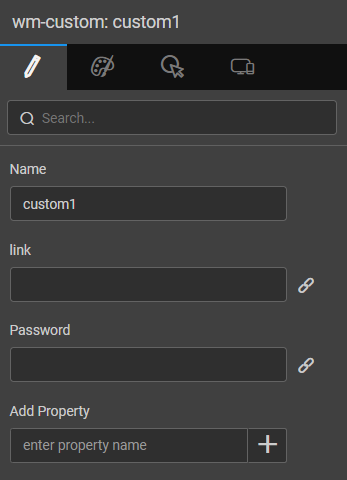
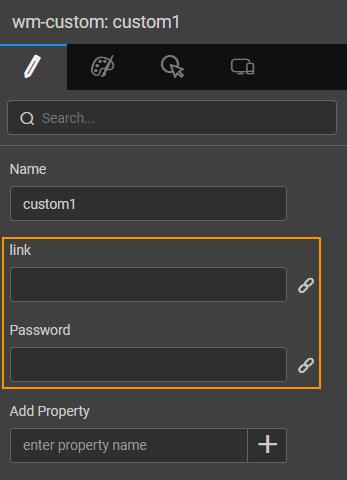
Feat: updated docs for Pdf preview and custom JS modules (#881)
* Feat: updated docs for Pdf preview and custom JS modules

* Fix: added pdf dependencies version

* Feat: pdf preview prefab doc changes

* Feat: updated docs with .web.js file, added project's markup, updated screenshots

* edited the document

* added import statements

* Fix: missing import statements, resolved PR comments

---------

Changed region(s): [[0.0, 0.4688, 0.9222, 0.8125]]

diff --git a/learn/react-native/pdf-preview-and-download.md b/learn/react-native/pdf-preview-and-download.md
@@ -4,7 +4,9 @@ id: "pdf-preview-and-download"
 sidebar_label: "PDF preview"
 ---
 ---
+
 import PdfPreview from '/learn/assets/pdf-preview-and-download.png';
+import PdfDownloadNotification from '/learn/assets/pdf_download_notification.png';
 import CreatePrefab from '/learn/assets/create-pdf-preview-prefab.png'
 import SelectWidget from '/learn/assets/select-custom-widget.png'
 import CreateProperties from '/learn/assets/add-link-and-password-property.png' 
@@ -14,82 +16,85 @@ import BindProperties from '/learn/assets/bind-link-and-password-properties.png'
 import DialogBox from '/learn/assets/password-dialog-box.png'
 import Password from '/learn/assets/add-password-expression.png'
 import ImplementPrefab from '/learn/assets/implement-prefab-to-project.png'
+import PdfPreviewNative from '/learn/assets/PdfPreview_native_module.png'
+import PdfPreviewWeb from '/learn/assets/PdfPreview_web_module.png'
+import PdfPreviewPrefab from '/learn/assets/PdfPreview_prefab_script.png'
 
-Viewing PDFs without leaving the mobile app offers ability for developers to keep their users in the app's context. It is possible to let PDF file download to the phone and have the user open it using a different app. That may not be best user experience for an app. Not all users may know how to locate and open the PDF file in a different app. 
-In this how-to we will see how to add PDF preview functionality to a WaveMaker app using the `react-native-pdf` and 
-`react-native-blob-util` libraries.
+Viewing PDFs without having to close the mobile app offers the ability to keep their users in the app's context. It is possible to download the PDF files on the phone and have the user open them using a different app. This might not be the best user experience for an app. Not all users might know how to locate and open the PDF file in a different app.
 
-## Adding PDF Preview in a WaveMaker App
+In this document, we will see how to add PDF preview functionality to a WaveMaker app using the `react-native-pdf` and `react-native-blob-util` libraries.
 
-The `react-native-pdf` library is a React Native PDF viewer component with support for both iOS and Android. 
-It uses the native libraries `PDFKit` on iOS and `PdfRenderer` on Android. 
-The `react-native-blob-util` library is a React Native wrapper for the `blob-util` library.
-We can leverage these libraries to add PDF preview functionality to a WaveMaker app. The best way to accomplish this is 
-through creating a prefabs in WaveMaker which will handle the PDF functional component.
+## Adding PDF Preview in WaveMaker App
+
+The `react-native-pdf` library is a React Native PDF viewer component with support for both iOS and Android. It uses the native libraries `PDFKit` on iOS and `PdfRenderer` on Android. The `react-native-blob-util` library is a React Native wrapper for the `blob-util` library.
+We can leverage these libraries to add PDF preview functionality to a WaveMaker app. The best way to accomplish this is by creating Prefabs in WaveMaker which will handle the PDF functional component.
 
 ## Building Prefabs in WaveMaker for PDF Preview
 
-The following steps will you can create your own Prefabs for PDF Preview.
+The following steps will help you create your own Prefab for PDF Preview. To know how to add third-party libraries see, [Custom Widget](/learn/react-native/custom-widget#adding-third-party-native-libraries).
 
-<img src={CreatePrefab} style={{width:"35%"}} />
+<img src={CreatePrefab} style={{width:"100%"}} /><br/><br/>
 
-Select widget in sidebar and search for the custom widget and drag n drop to the design box
+1. Go to Widget in the sidebar and search for the **Custom** widget. Drag and drop it on the Design screen.
 
-<img src={SelectWidget} style={{width:"35%"}} />
+<img src={SelectWidget} style={{width:"35%"}} /><br/><br/>
 
-Add link and password properties to the custom widget
+2. Add **link** and **Password** properties to the custom widget
+
+:::note
+We can render this Prefab with or without password-protected files.
+:::
 
 <img src={CreateProperties} style={{width:"35%"}} />
 
 ### Prefab Configuration
 
-On creating prefab we configure it through simple steps. 
+On creating a Prefab we can configure it by following the steps given below.
 
-Click on **setting** then click on  **Config Prefab**. Now, select Resources tab and In **Script** section add `react-native-pdf` and 
-`react-native-blob-util` dependencies to the scripts and then click on save.
+1. Click on **Setting** icon, then click on  **Prefab Configuration**. Now, select the Resources tab and in **Script** section add `react-native-pdf@6.6.2` and `react-native-blob-util@0.19.8` dependencies to the scripts and then click on Save.
 
-<img src={AddPackages} style={{width:"35%"}} />
+<img src={AddPackages} style={{width:"100%"}} /><br/><br/>
 
-And then, select properties tab. Add Link Property in **UI Properties** section and click on save.
+2. Then, select the **Properties** tab. Add Link and Pdfpassword Property in the **UI Properties** section and click on Save.
 
-<img src={AddProperty} style={{width:"35%"}} />
+<img src={AddProperty} style={{width:"100%"}} /><br/><br/>
 
-Make sure to select **Use Expression** tab, and add `pdfpassword` expressoin.
+3. Make sure to select the **Use Expression** tab, and add `pdfpassword` expression.
 
-<img src={Password} style={{width:"35%"}} />
+<img src={Password} style={{width:"100%"}} /><br/><br/>
 
-Time to bind prefab link and password properties to the widget
+4. Now, we can bind Prefab **link** and **Password** properties to the widget.
 
 <img src={BindProperties} style={{width:"35%"}} />
 
-After setting up the configurations it's time for us to implement functionality for the prefab with code.
+Here's the final **Markup** for the Prefab.
+```html
+<wm-prefab-container name="prefab_container1">
+    <wm-custom name="custom1" linkparam="bind:Variables.link.dataSet.dataValue" passwordparam="bind:Variables.pdfpassword.dataSet.dataValue"></wm-custom>
+</wm-prefab-container>
+```
 
-In order to handle password flows, we need to create dialog box for password by using design dialog widget.
+### Prefab Implementation
 
-<img src={DialogBox} style={{width:"35%"}} />
+After setting up the configurations it's time for us to implement functionality for the Prefab with code. This functionality will be imported later in our project.
+
+1. To handle password flows, we need to create a Dialog box for password by using the Design Dialog widget.
+
+<img src={DialogBox} style={{width:"100%"}} /><br/><br/>
+
+2. Add a [custom file](/learn/react-native/custom-js-modules/#adding-custom-js-libraries), for the native implementation of PdfPreview, e.g, `PdfPreview.native.js`
+
+:::note
+We don't support PdfPreview Prefab on the web
+:::
 
 ```javascript
-
-Prefab.onReady = function() {
-    Prefab.date = new Date();
-    if (Prefab.Widgets.custom1) {
-        Prefab.Widgets.custom1.renderview = renderPdf;
-    }
-};
-
-Prefab.submitClick = function($event, widget) {
-    Prefab.pdfpassword = Prefab.Widgets.passwordinput.datavalue;
-};
-
-function renderPdf(props) {
-    const react = require('react');
+// resources/files/PdfPreview.native.js
+function PdfPreview(props) {
+    const React = require('react');
     const Pdf = require('react-native-pdf');
 
-    if (!props.link) {
-        return null;
-    }
-
-    return react.createElement(Pdf.default, {
+    return React.createElement(Pdf.default, {
         trustAllCerts: false,
         source: {
             uri: props.link,
@@ -102,72 +107,151 @@ function renderPdf(props) {
         },
         password: props.password ? props.password : '',
         onError: (error) => {
-            Prefab.Widgets.passworddialog.open();
             console.log(error);
         },
         onLoadComplete: (numberOfPages, filepath) => {
-            Prefab.Widgets.passworddialog.close();
             console.log(`number of pages: ${numberOfPages}`);
         },
     });
 }
+
+module.exports = {
+    PdfPreview,
+}
 ```
 
-This prefab we can render with or without password-protected files.
+```javascript
+// resources/files/PdfPreview.web.js
+function PdfPreview(props) {
+    const React = require("react");
+    const RN = require('react-native');
+    const {View, Text} = RN;
 
-## Implement Prefab to the project
+    return (
+        <View>
+            <Text>Pdf Preview is not supported on web</Text>
+        </View>
+    );
+}
 
-To implement Prefab to the project, expand Prefab tab in sidebar and select your custom prefab and drag n drop to the design box
+module.exports = {
+    PdfPreview,
+}
+```
 
-<img src={ImplementPrefab} style={{width:"35%"}} />
+<img src={PdfPreviewNative} style={{width:"100%"}} />
+<img src={PdfPreviewWeb} style={{width:"100%"}} /><br/><br/>
 
-## Downloading PDFs in a WaveMaker App
+3. Import the PdfPreview module in Prefab's Main **Script** and pass appropriate props to show pdf on the native mobile platform.
+
+```javascript
+Prefab.onReady = function() {
+    Prefab.date = new Date();
+    if (Prefab.Widgets.custom1) {
+        Prefab.Widgets.custom1.renderview = renderPdf;
+    }
+};
+
+Prefab.submitClick = function($event, widget) {
+    Prefab.pdfpassword = Prefab.Widgets.passwordinput.datavalue;
+};
+
+function renderPdf(props) {
+    try {
+        const React = require('react');
+        const {
+            PdfPreview
+        } = require('../../../assets/resources/files/PdfPreview');
+
+        if (!props.link) {
+            return null;
+        }
+
+        return React.createElement(PdfPreview, {
+            link: props.link,
+            password: props.password ? props.password : '',
+        })
+    } catch (error) {
+        console.log('Failed to render pdf', error);
+    }
+}
+```
+
+<img src={PdfPreviewPrefab} style={{width:"100%"}} />
+
+## Implementing Prefab in Project
+
+To implement Prefab in the project, expand the Prefab tab in the sidebar and select your custom Prefab. Drag and drop on the Design screen.
+
+<img src={ImplementPrefab} style={{width:"100%"}} /><br/><br/>
+
+Here's the **Markup** for the project.
+
+```html
+<wm-page name="mainpage">
+    <wm-left-panel content="leftnav" name="left_panel1"></wm-left-panel>
+    <wm-mobile-navbar name="mobile_navbar1" title="Pdf Preview" backbutton="false">
+        <wm-anchor caption="" name="AddLink" iconclass="wi wi-gear"></wm-anchor>
+    </wm-mobile-navbar>
+    <wm-content name="content1">
+        <wm-page-content columnwidth="12" name="page_content1">
+            <wm-composite name="composite1" captionposition="floating">
+                <wm-label class="col-xs-4 control-label" name="label1" caption="Enter PDF link"></wm-label>
+                <wm-container class="col-xs-8" name="container1" width="100%">
+                    <wm-text name="pdfUrl" datavalue="bind:Variables.link.dataSet.dataValue"></wm-text>
+                </wm-container>
+            </wm-composite>
+            <wm-button class="btn-primary" caption="Download Pdf" type="button" name="button1" on-tap="button1Tap($event, widget)" margin="10px unset" fontsize="12"></wm-button>
+            <wm-prefab prefabname="PdfViewer" name="PdfViewer2"></wm-prefab>
+        </wm-page-content>
+    </wm-content>
+    <wm-mobile-tabbar name="mobile_tabbar1"></wm-mobile-tabbar>
+</wm-page>
+```
+
+## Downloading PDFs in WaveMaker App
 
 Downloading PDFs is a common requirement in mobile applications, and React Native makes it relatively straightforward to implement this functionality. 
-Here, we'll walk you through how to download a PDF file in a WaveMaker app using the `rn-fetch-blob`.
+Here, we'll walk you through how to download a PDF file in a WaveMaker app using `react-native-blob-util`.
 
-### Adding rn-fetch-blob Plugin to your WaveMaker App
-
-- rn-fetch-blob
-
-RNFetchBlob plugin can be installed in a few steps in a WaveMaker application. Please refer to this [page](https://docs.wavemaker.com/learn/react-native/third-party-expo-plugins#expo)
-on how to install the plugin. 
-
-
+<div style={{display:"flex", gap: 20}}>
 <img src={PdfPreview} style={{width:"35%"}} />
+<img src={PdfDownloadNotification} style={{width:"35%"}} />
+</div><br/>
 
 The following is the code snippet for the above mockup
+:::note
+We don't support downloading PDFs on the web
+:::
 
-```javascript 
-var RNFetchBlob = require('rn-fetch-blob').default;
+```javascript
+Page.onReady = function() {};
 
-  Page.onReady = function () {};
+Page.button1Tap = function($event, widget) {
+    try {
+        const RNBlobUtil = require('react-native-blob-util').default;
 
-  Page.downloadpdfTap = function ($event, widget) {
-    const value = Page.Widgets.pdfurl.datavalue; //input value
+        const dirs = RNBlobUtil.fs.dirs;
+        const pdfUrl = Page.Widgets.pdfUrl.datavalue;
+        const fileName = pdfUrl.substring(pdfUrl.lastIndexOf('/') + 1, pdfUrl.length);
 
-    let dirs = RNFetchBlob.fs.dirs;
-    
-    const filename = value.substring(value.lastIndexOf('/') + 1, value.length);
-
-    RNFetchBlob.config({
-      fileCache: true,
-      path: dirs.DownloadDir + '/' + filename,
-      addAndroidDownloads: {
-        notification: true,
-        title: filename,
-        mediaScannable: true,
-      },
-    })
-      .fetch('GET', value, {})
-      .then(res => {
-        console.log('The file saved to ', res.path());
-      })
-      .catch(error => {
-        console.error('Error creating directory:', error);
-      });
-  };
-
+        RNBlobUtil
+            .config({
+                fileCache: true,
+                path: dirs.DownloadDir + '/' + fileName,
+                addAndroidDownloads: {
+                    useDownloadManager: true,
+                    notification: true,
+                }
+            })
+            .fetch('GET', pdfUrl, {})
+            .then((res) => {
+                console.log('The file saved to ', res.path())
+            })
+    } catch (error) {
+        console.log('Error downloading pdf: ', error);
+    }
+};
 ```
 
 

diff --git a/learn/react-native/custom-js-modules.md b/learn/react-native/custom-js-modules.md
@@ -52,6 +52,13 @@ module.exports = {
 require('./assets/resources/files/customScript.js');
 ```
 
+Likewise, we can import platform-specific files to ensure the custom module runs on a certain platform only
+
+```
+require('./assets/resources/files/customScript.native.js');
+require('./assets/resources/files/customScript.web.js');
+```
+
 :::note
 `./assets/` should be added before resources in the import path
 :::
@@ -69,6 +76,8 @@ App.customModule = function() {
     return require('./assets/resources/files/customScript.js');
 }
 ```
+
+We can import `.native.js` or `.web.js` files, using the script provided above.
 
 ### Page Markup
 
